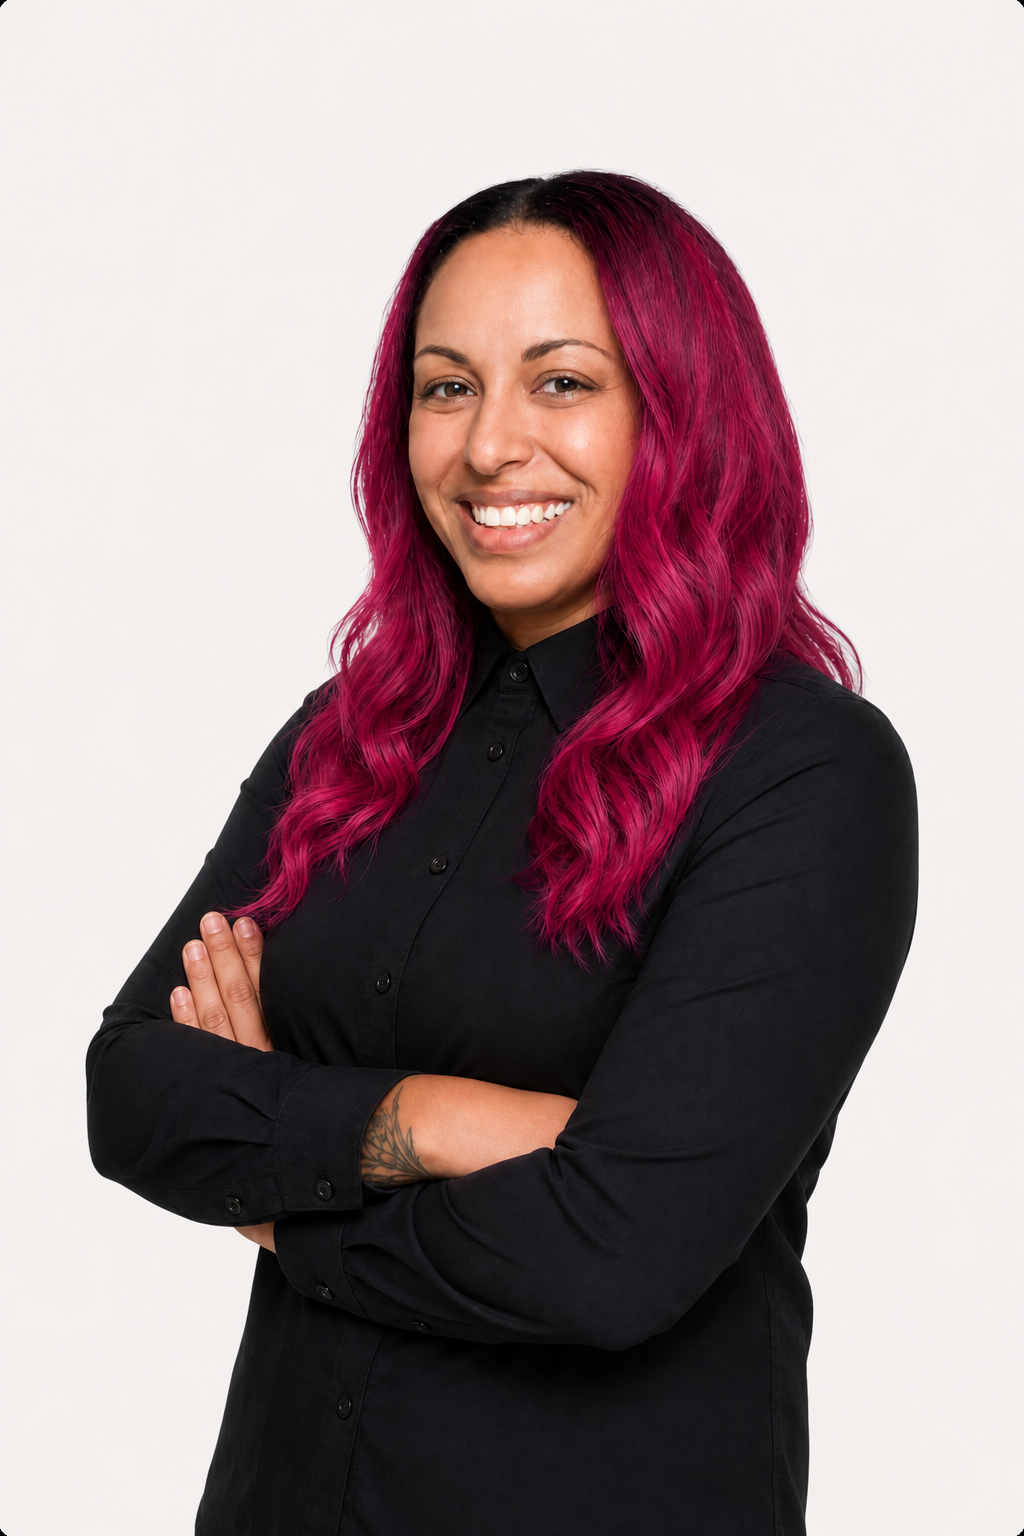
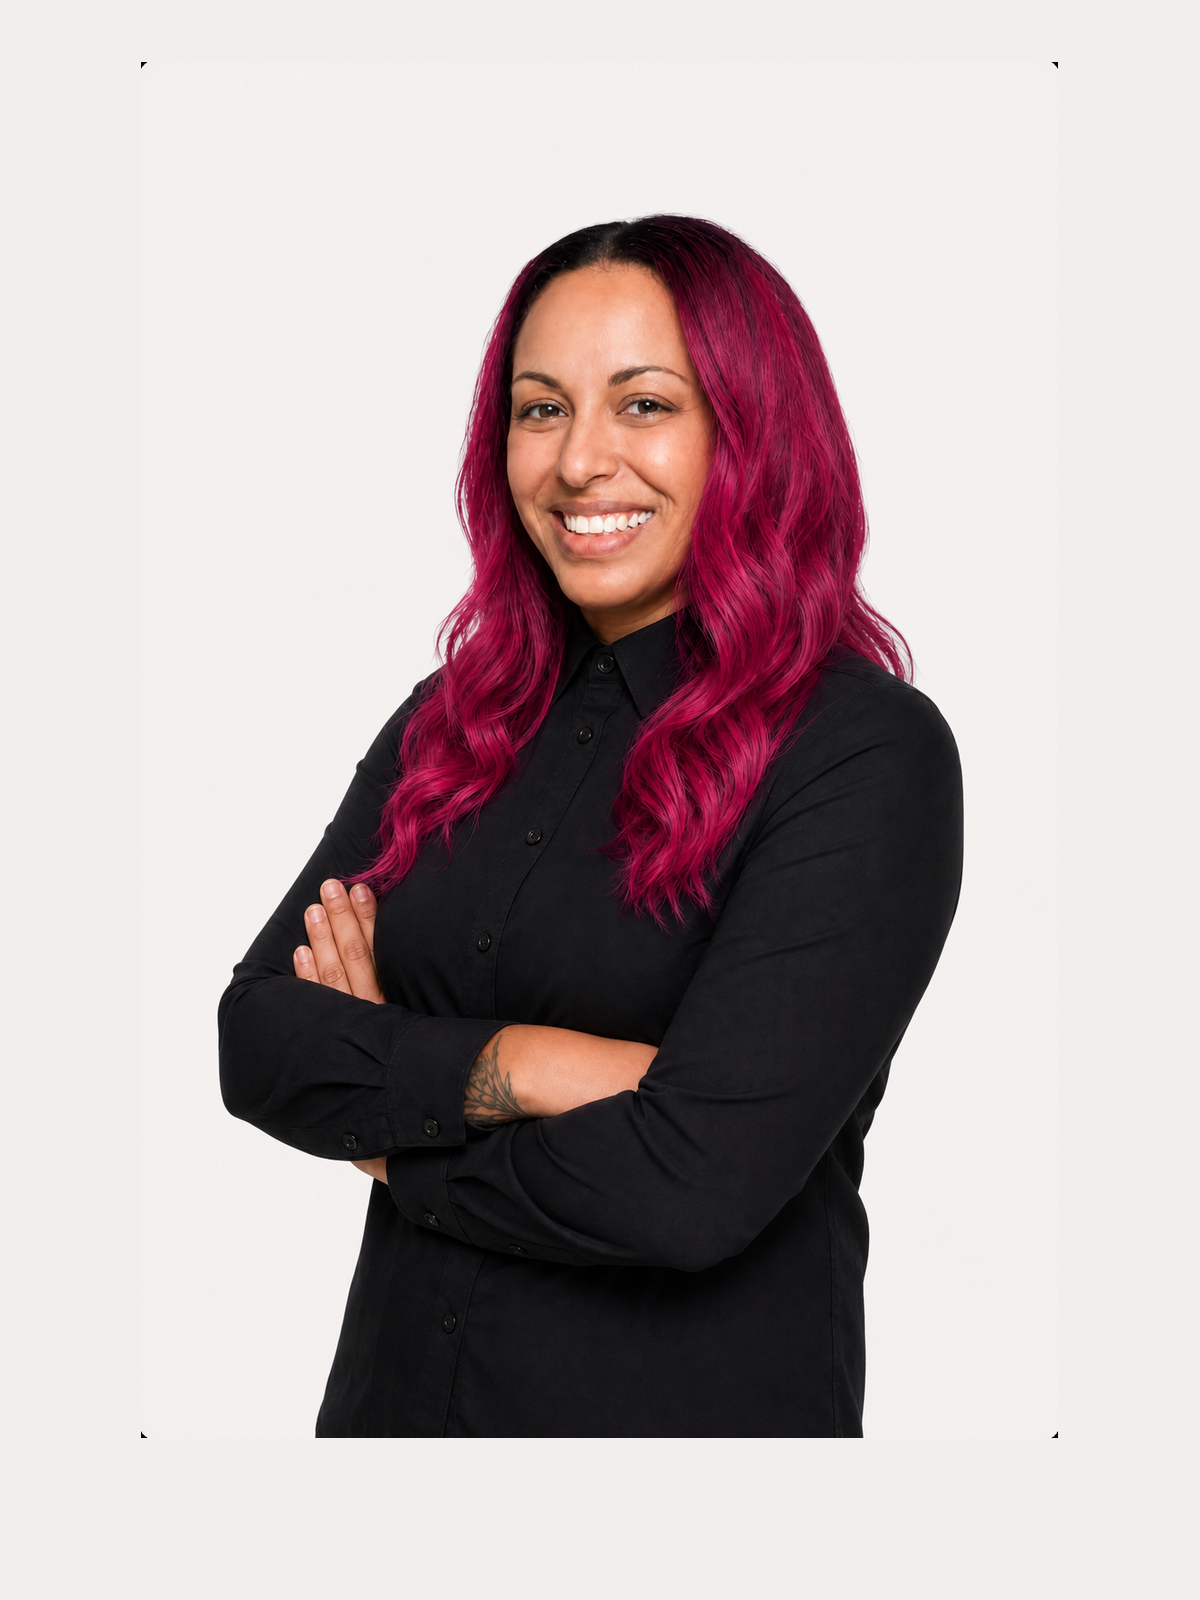
Scale back the homepage hero so the portrait is not cropped
Give the no-glasses photos more headroom and pin desktop cover to the right so her face stays in frame instead of filling the viewport.

diff --git a/app/page.tsx b/app/page.tsx
@@ -57,14 +57,14 @@ export default function HomePage() {
           <HeroContent />
         </div>
 
-        <div className="relative aspect-[4/5] w-full md:absolute md:inset-0 md:aspect-auto md:min-h-[calc(100svh-65px)]">
+        <div className="relative aspect-[3/4] max-h-[34rem] w-full md:absolute md:inset-0 md:aspect-auto md:max-h-none md:min-h-[calc(100svh-65px)]">
           <Image
             src={hero.images.desktop}
             alt={hero.images.alt}
             fill
             priority
             sizes="100vw"
-            className="hidden object-cover object-center md:block"
+            className="hidden object-cover object-right md:block"
           />
           <Image
             src={hero.images.mobile}
@@ -72,7 +72,7 @@ export default function HomePage() {
             fill
             priority
             sizes="100vw"
-            className="object-cover object-center"
+            className="object-cover object-[center_20%]"
           />
           <div className="absolute inset-0 hidden bg-gradient-to-r from-black/70 via-black/40 to-transparent md:block" />
         </div>
